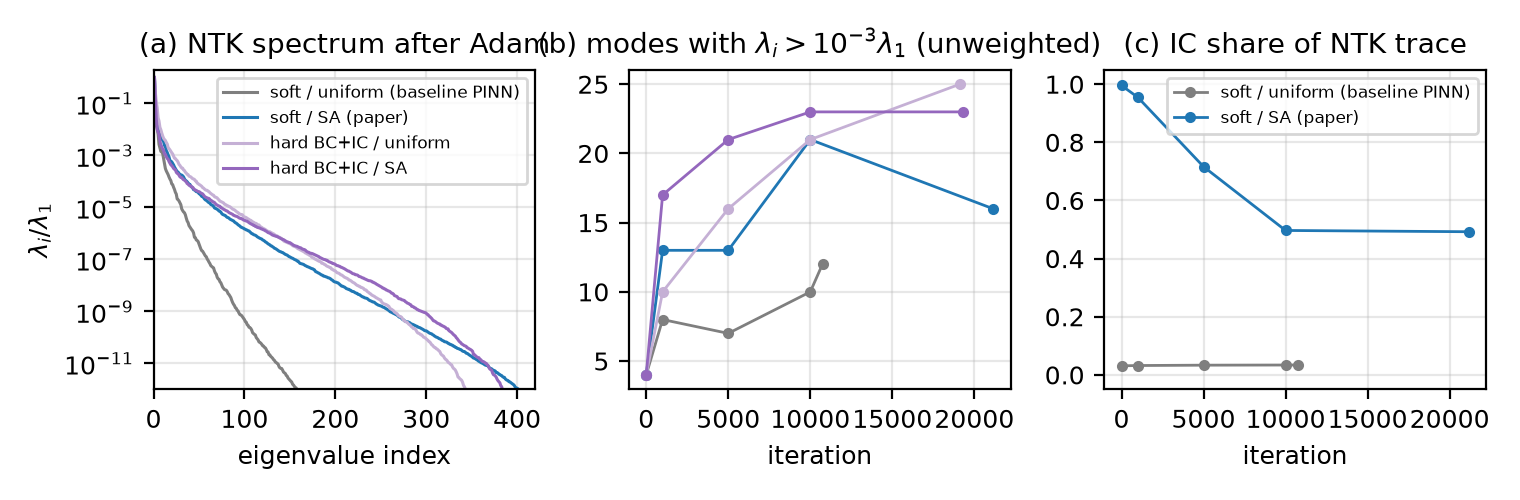
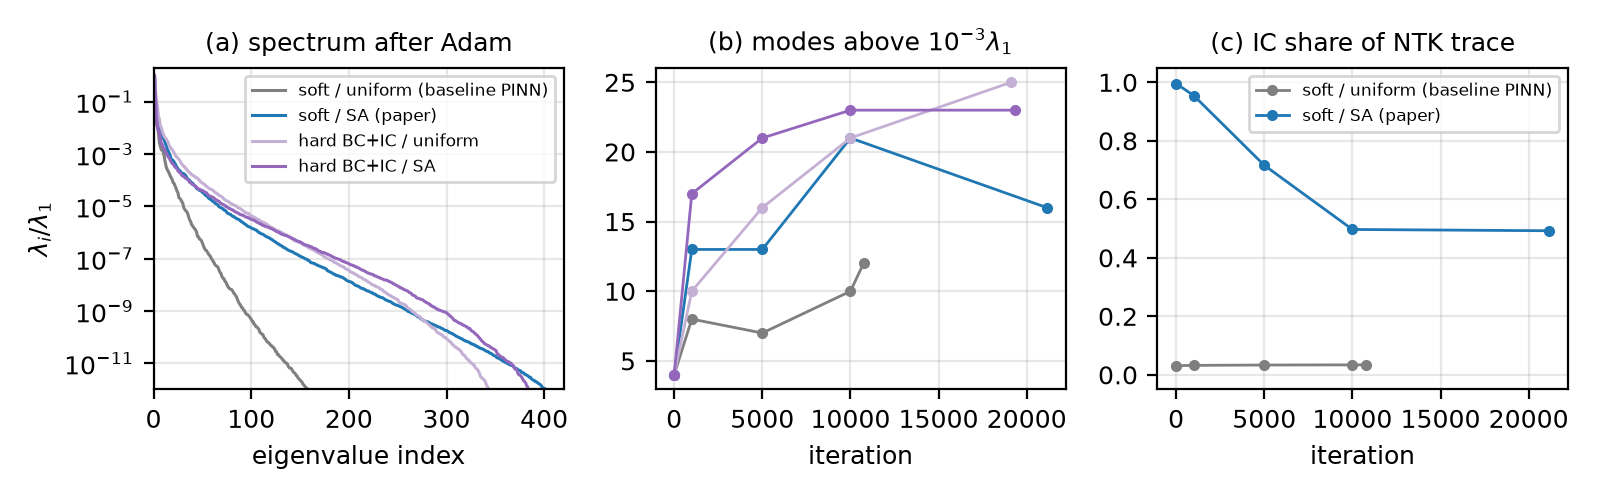
Shorten NTK figure panel titles

diff --git a/scripts/plot.py b/scripts/plot.py
@@ -122,7 +122,7 @@ def fig_ntk(results, path, seed=0, step="step10000"):
     files = {n: ntk_dir / f"{n}_seed{seed}.npz" for n in ORDER if (ntk_dir / f"{n}_seed{seed}.npz").exists()}
     if not files:
         return
-    fig, axes = plt.subplots(1, 3, figsize=(7.6, 2.5))
+    fig, axes = plt.subplots(1, 3, figsize=(8.0, 2.5))
     # (a) spectrum of the weighted kernel after the Adam phase
     ax = axes[0]
     for name, f in files.items():
@@ -131,7 +131,7 @@ def fig_ntk(results, path, seed=0, step="step10000"):
         if key in d:
             w = d[key]
             ax.semilogy(np.arange(1, len(w) + 1), w / w[0], color=COLOR[name], lw=1.1, label=LABEL[name])
-    ax.set_title(f"(a) NTK spectrum after Adam"); ax.set_xlabel("eigenvalue index"); ax.set_ylabel(r"$\lambda_i/\lambda_1$")
+    ax.set_title("(a) spectrum after Adam", fontsize=9); ax.set_xlabel("eigenvalue index"); ax.set_ylabel(r"$\lambda_i/\lambda_1$")
     ax.set_ylim(1e-12, 2); ax.set_xlim(0, 420); ax.grid(alpha=0.3); ax.legend(fontsize=6)
     # (b) number of significant modes during training
     ax = axes[1]
@@ -139,7 +139,7 @@ def fig_ntk(results, path, seed=0, step="step10000"):
         js = json.load(open(f.with_suffix(".json")))
         pts = sorted((e["step"], e["unweighted_full"]["n_above_1e-3"]) for e in js["steps"].values())
         ax.plot([p[0] for p in pts], [p[1] for p in pts], "o-", color=COLOR[name], lw=1, ms=3, label=LABEL[name])
-    ax.set_title(r"(b) modes with $\lambda_i>10^{-3}\lambda_1$ (unweighted)"); ax.set_xlabel("iteration"); ax.grid(alpha=0.3)
+    ax.set_title(r"(b) modes above $10^{-3}\lambda_1$", fontsize=9); ax.set_xlabel("iteration"); ax.grid(alpha=0.3)
     # (c) trace share of the IC block (soft variants only)
     ax = axes[2]
     for name, f in files.items():
@@ -152,7 +152,7 @@ def fig_ntk(results, path, seed=0, step="step10000"):
         if pts:
             pts.sort()
             ax.plot([p[0] for p in pts], [p[1] for p in pts], "o-", color=COLOR[name], lw=1, ms=3, label=LABEL[name])
-    ax.set_title("(c) IC share of NTK trace"); ax.set_xlabel("iteration"); ax.set_ylim(-0.05, 1.05); ax.grid(alpha=0.3)
+    ax.set_title("(c) IC share of NTK trace", fontsize=9); ax.set_xlabel("iteration"); ax.set_ylim(-0.05, 1.05); ax.grid(alpha=0.3)
     ax.legend(fontsize=6)
     fig.tight_layout(); fig.savefig(path, dpi=200); plt.close(fig)
 
